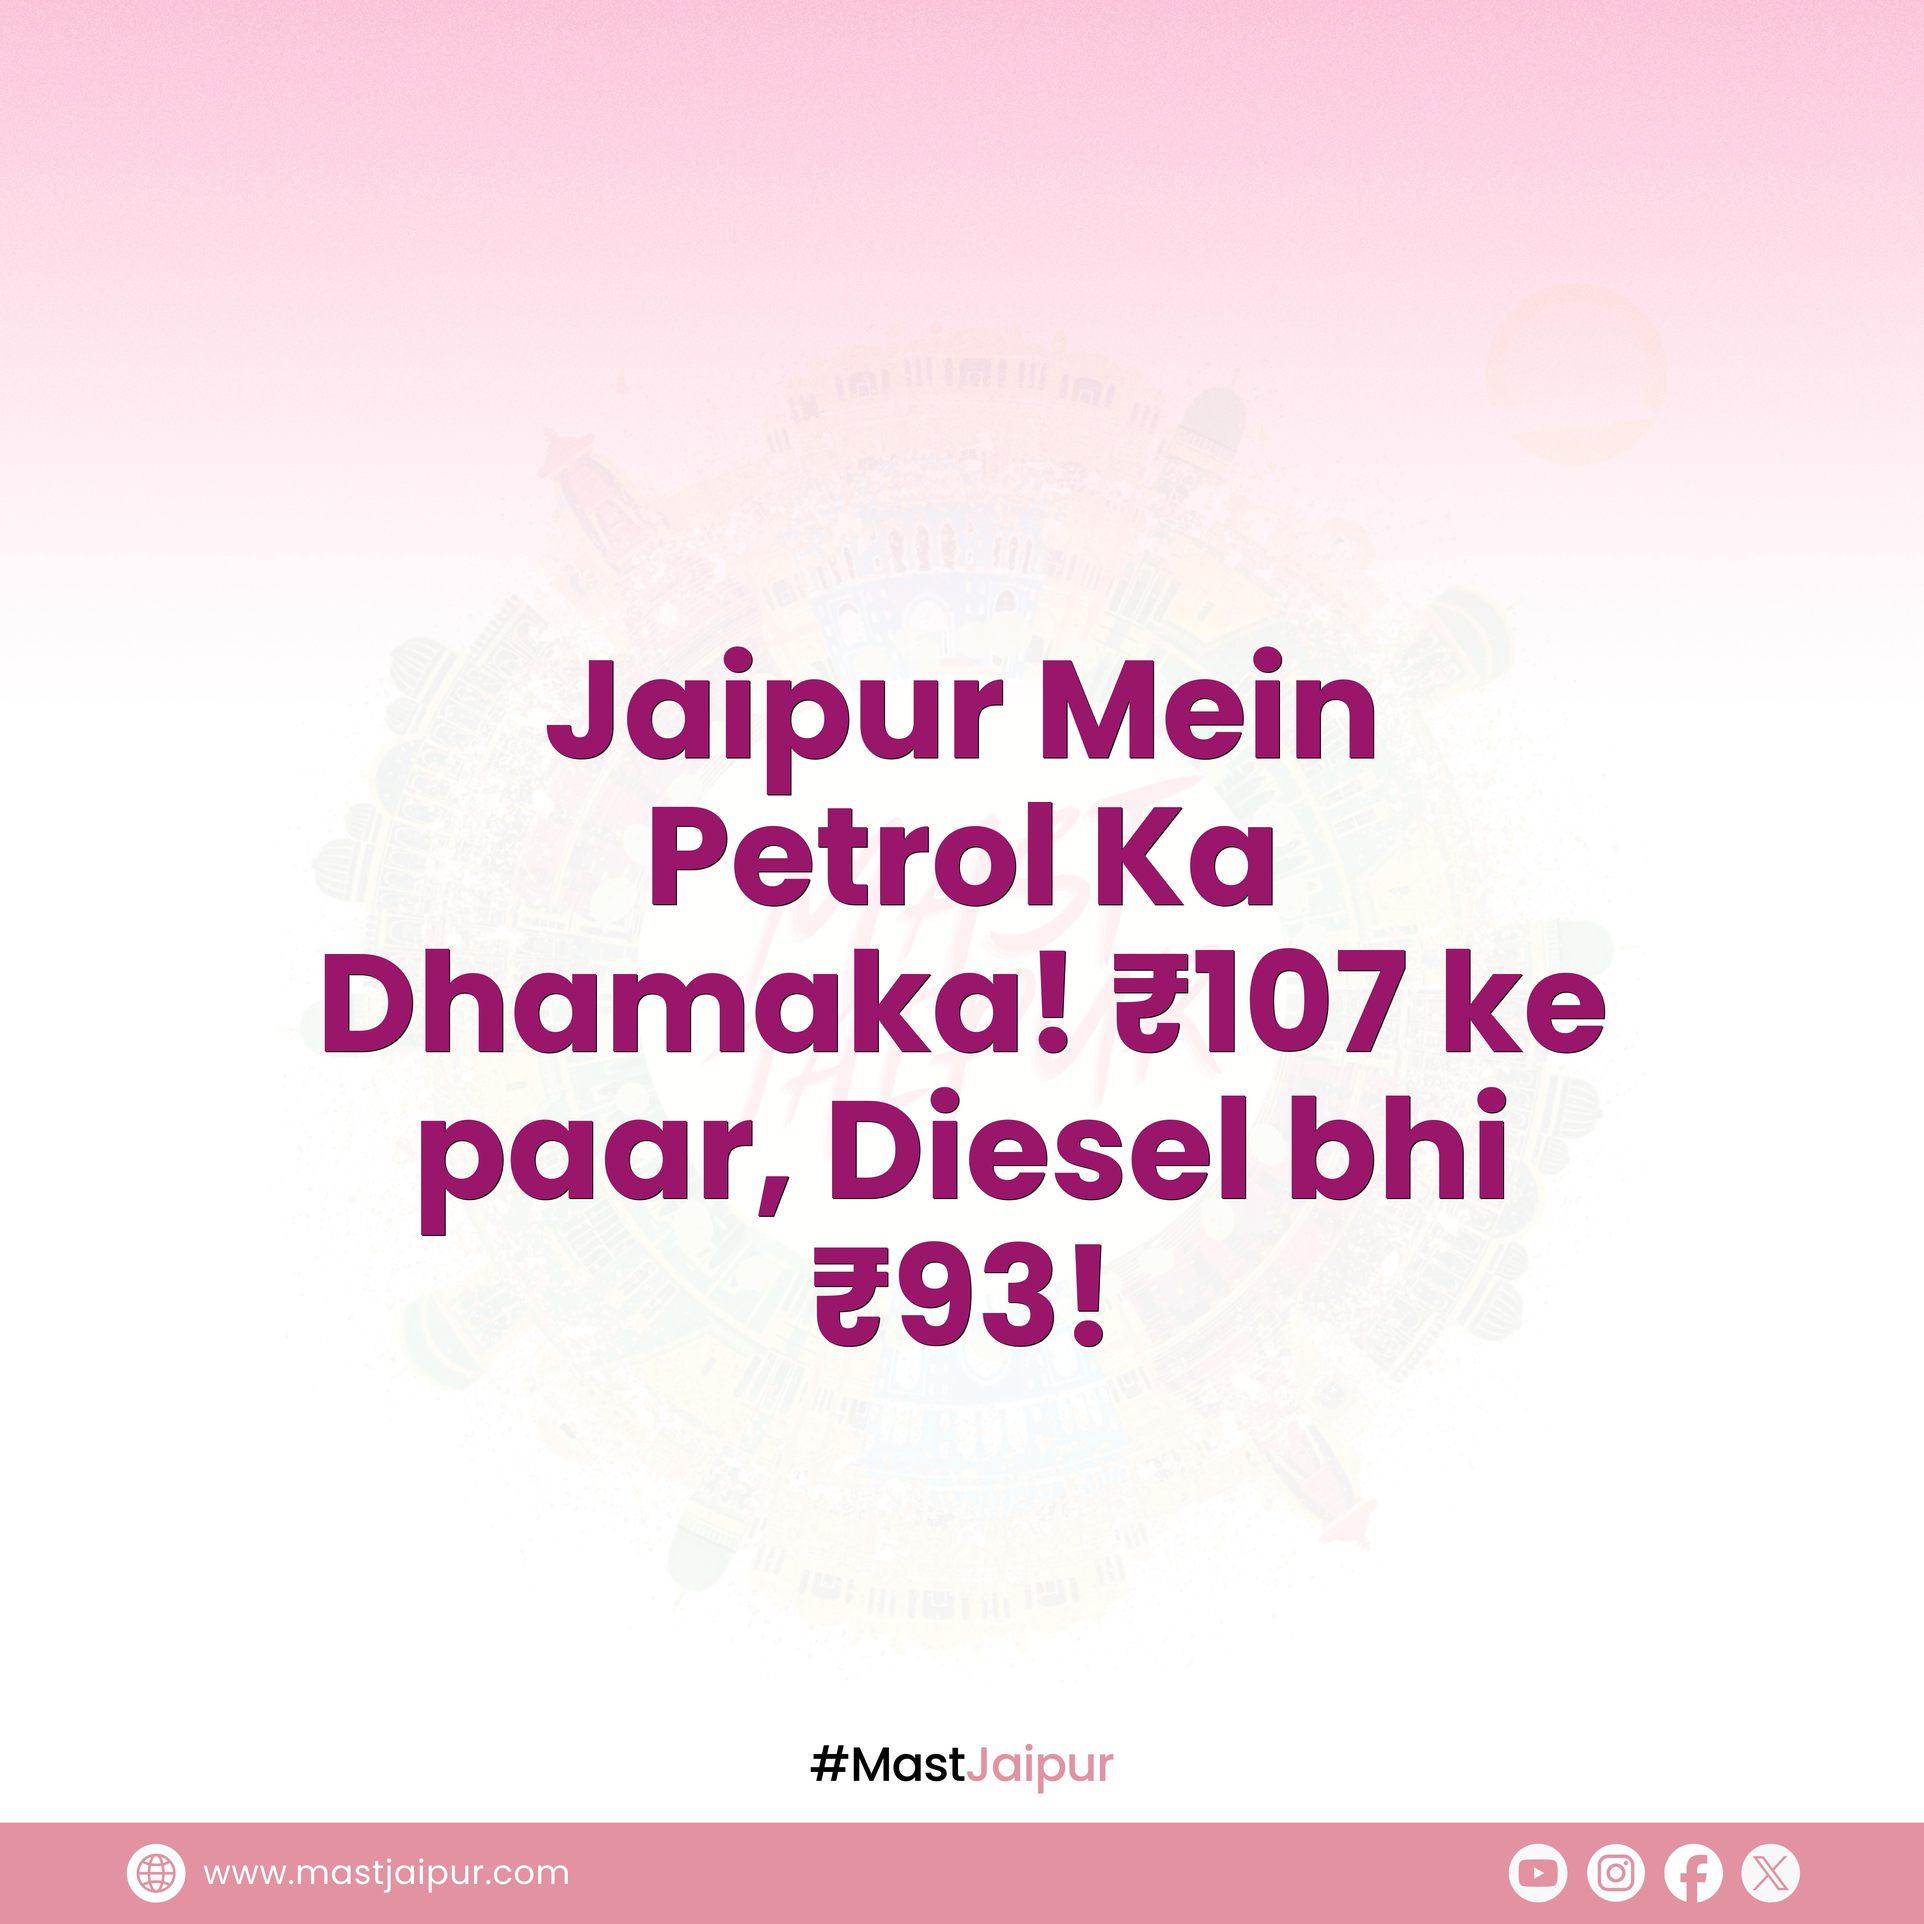
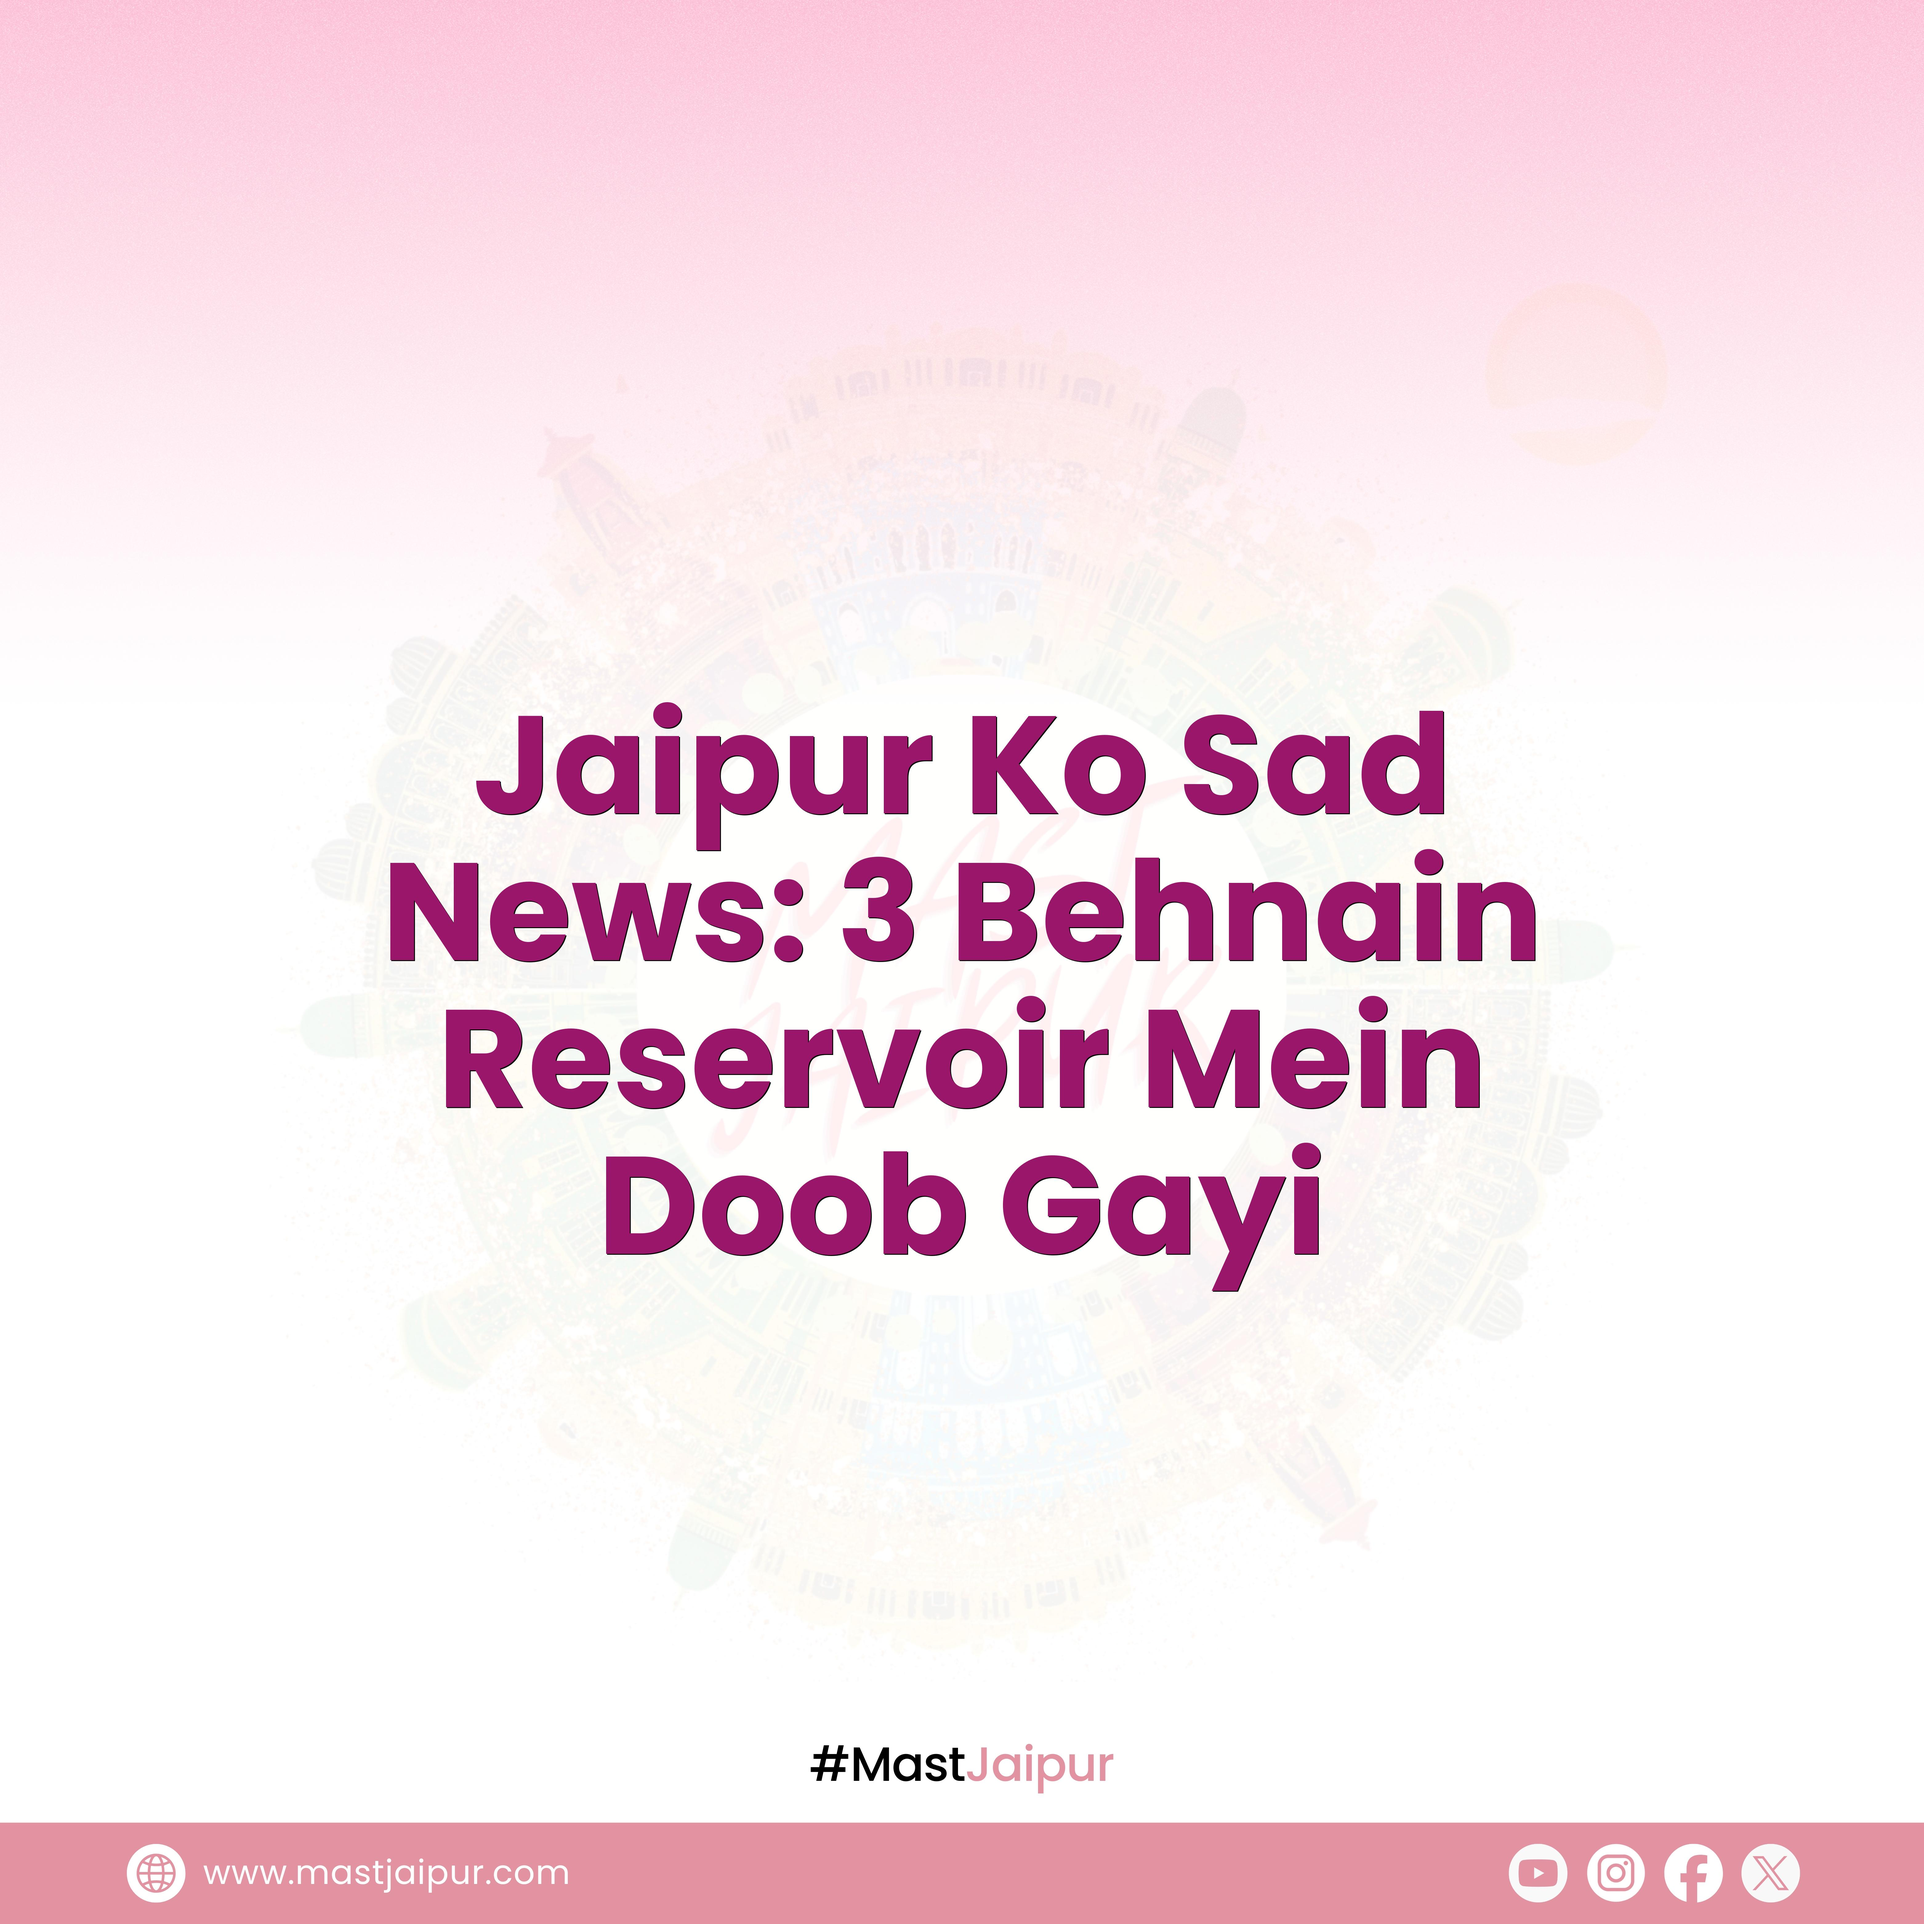
commit 7

Changed region(s): [[0.156, 0.3432, 0.8424, 0.7176]]

diff --git a/main.py b/main.py
@@ -6,6 +6,7 @@ import cloudinary
 import cloudinary.uploader
 import feedparser
 import re
+import random
 
 from PIL import Image, ImageDraw, ImageFont
 from dotenv import load_dotenv
@@ -19,8 +20,8 @@ load_dotenv()
 
 OPENAI_API_KEY = os.getenv("OPENAI_API_KEY")
 NEWS_API_KEY = os.getenv("NEWS_API_KEY")
+GNEWS_API_KEY = os.getenv("GNEWS_API_KEY")
 
-FACEBOOK_PAGE_ID = os.getenv("FACEBOOK_PAGE_ID")
 
 INSTAGRAM_ACCESS_TOKEN = os.getenv("INSTAGRAM_ACCESS_TOKEN")
 INSTAGRAM_BUSINESS_ID = os.getenv("INSTAGRAM_BUSINESS_ID")
@@ -46,11 +47,7 @@ cloudinary.config(
 )
 
 # =====================================================
-# FETCH NEWS
-# =====================================================
-
-# =====================================================
-# FETCH MULTIPLE NEWS SOURCES
+# CLEAN TITLE
 # =====================================================
 
 def clean_title(title):
@@ -64,6 +61,8 @@ def clean_title(title):
     return title.strip()
 
 # =====================================================
+# FETCH NEWS
+# =====================================================
 
 def fetch_news():
 
@@ -74,8 +73,6 @@ def fetch_news():
     # =================================================
 
     try:
-
-        GNEWS_API_KEY = os.getenv("GNEWS_API_KEY")
 
         gnews_url = (
             f"https://gnews.io/api/v4/search?"
@@ -105,15 +102,13 @@ def fetch_news():
 
     try:
 
-        newsapi_key = os.getenv("NEWS_API_KEY")
-
         newsapi_url = (
             f"https://newsapi.org/v2/everything?"
             f'q=Jaipur OR Rajasthan'
             f"&language=en"
             f"&pageSize=10"
             f"&sortBy=publishedAt"
-            f"&apiKey={newsapi_key}"
+            f"&apiKey={NEWS_API_KEY}"
         )
 
         response = requests.get(newsapi_url)
@@ -187,7 +182,7 @@ def fetch_news():
 
         cleaned = clean_title(article["title"])
 
-        # SKIP VERY SHORT TITLES
+        # SKIP SHORT TITLES
         if len(cleaned) < 20:
             continue
 
@@ -195,7 +190,6 @@ def fetch_news():
 
         for seen in seen_titles:
 
-            # SIMILARITY CHECK
             if cleaned[:40] == seen[:40]:
 
                 duplicate = True
@@ -208,10 +202,8 @@ def fetch_news():
             unique_articles.append(article)
 
     # =================================================
-    # SHUFFLE FOR MORE VARIETY
+    # SHUFFLE ARTICLES
     # =================================================
-
-    import random
 
     random.shuffle(unique_articles)
 
@@ -410,28 +402,6 @@ def post_instagram(image_url, caption):
     print("✅ Posted Successfully")
     print(publish_response.json())
 
-
-# =====================================================
-# FACEBOOK POST
-# =====================================================
-
-def post_facebook(image_url, caption):
-
-    url = f"https://graph.facebook.com/v22.0/{FACEBOOK_PAGE_ID}/photos"
-
-    payload = {
-        "url": image_url,
-        "caption": caption,
-        "access_token": INSTAGRAM_ACCESS_TOKEN
-    }
-
-    response = requests.post(
-        url,
-        data=payload
-    )
-
-    print("✅ Posted on Facebook")
-    print(response.json())post_instagram(image_url, caption)
 # =====================================================
 # DUPLICATE CHECK
 # =====================================================
@@ -446,9 +416,12 @@ def already_posted(title):
 
     cleaned = clean_title(title)
 
-posted_cleaned = [clean_title(p) for p in posted]
+    posted_cleaned = [
+        clean_title(p)
+        for p in posted
+    ]
 
-return cleaned in posted_cleaned
+    return cleaned in posted_cleaned
 
 # =====================================================
 # SAVE POSTED NEWS
@@ -524,7 +497,7 @@ def run_automation():
     # POST INSTAGRAM
     post_instagram(image_url, caption)
 
-    post_facebook(image_url, caption)
+  
 
     # SAVE POSTED NEWS
     save_posted_news(news["title"])
